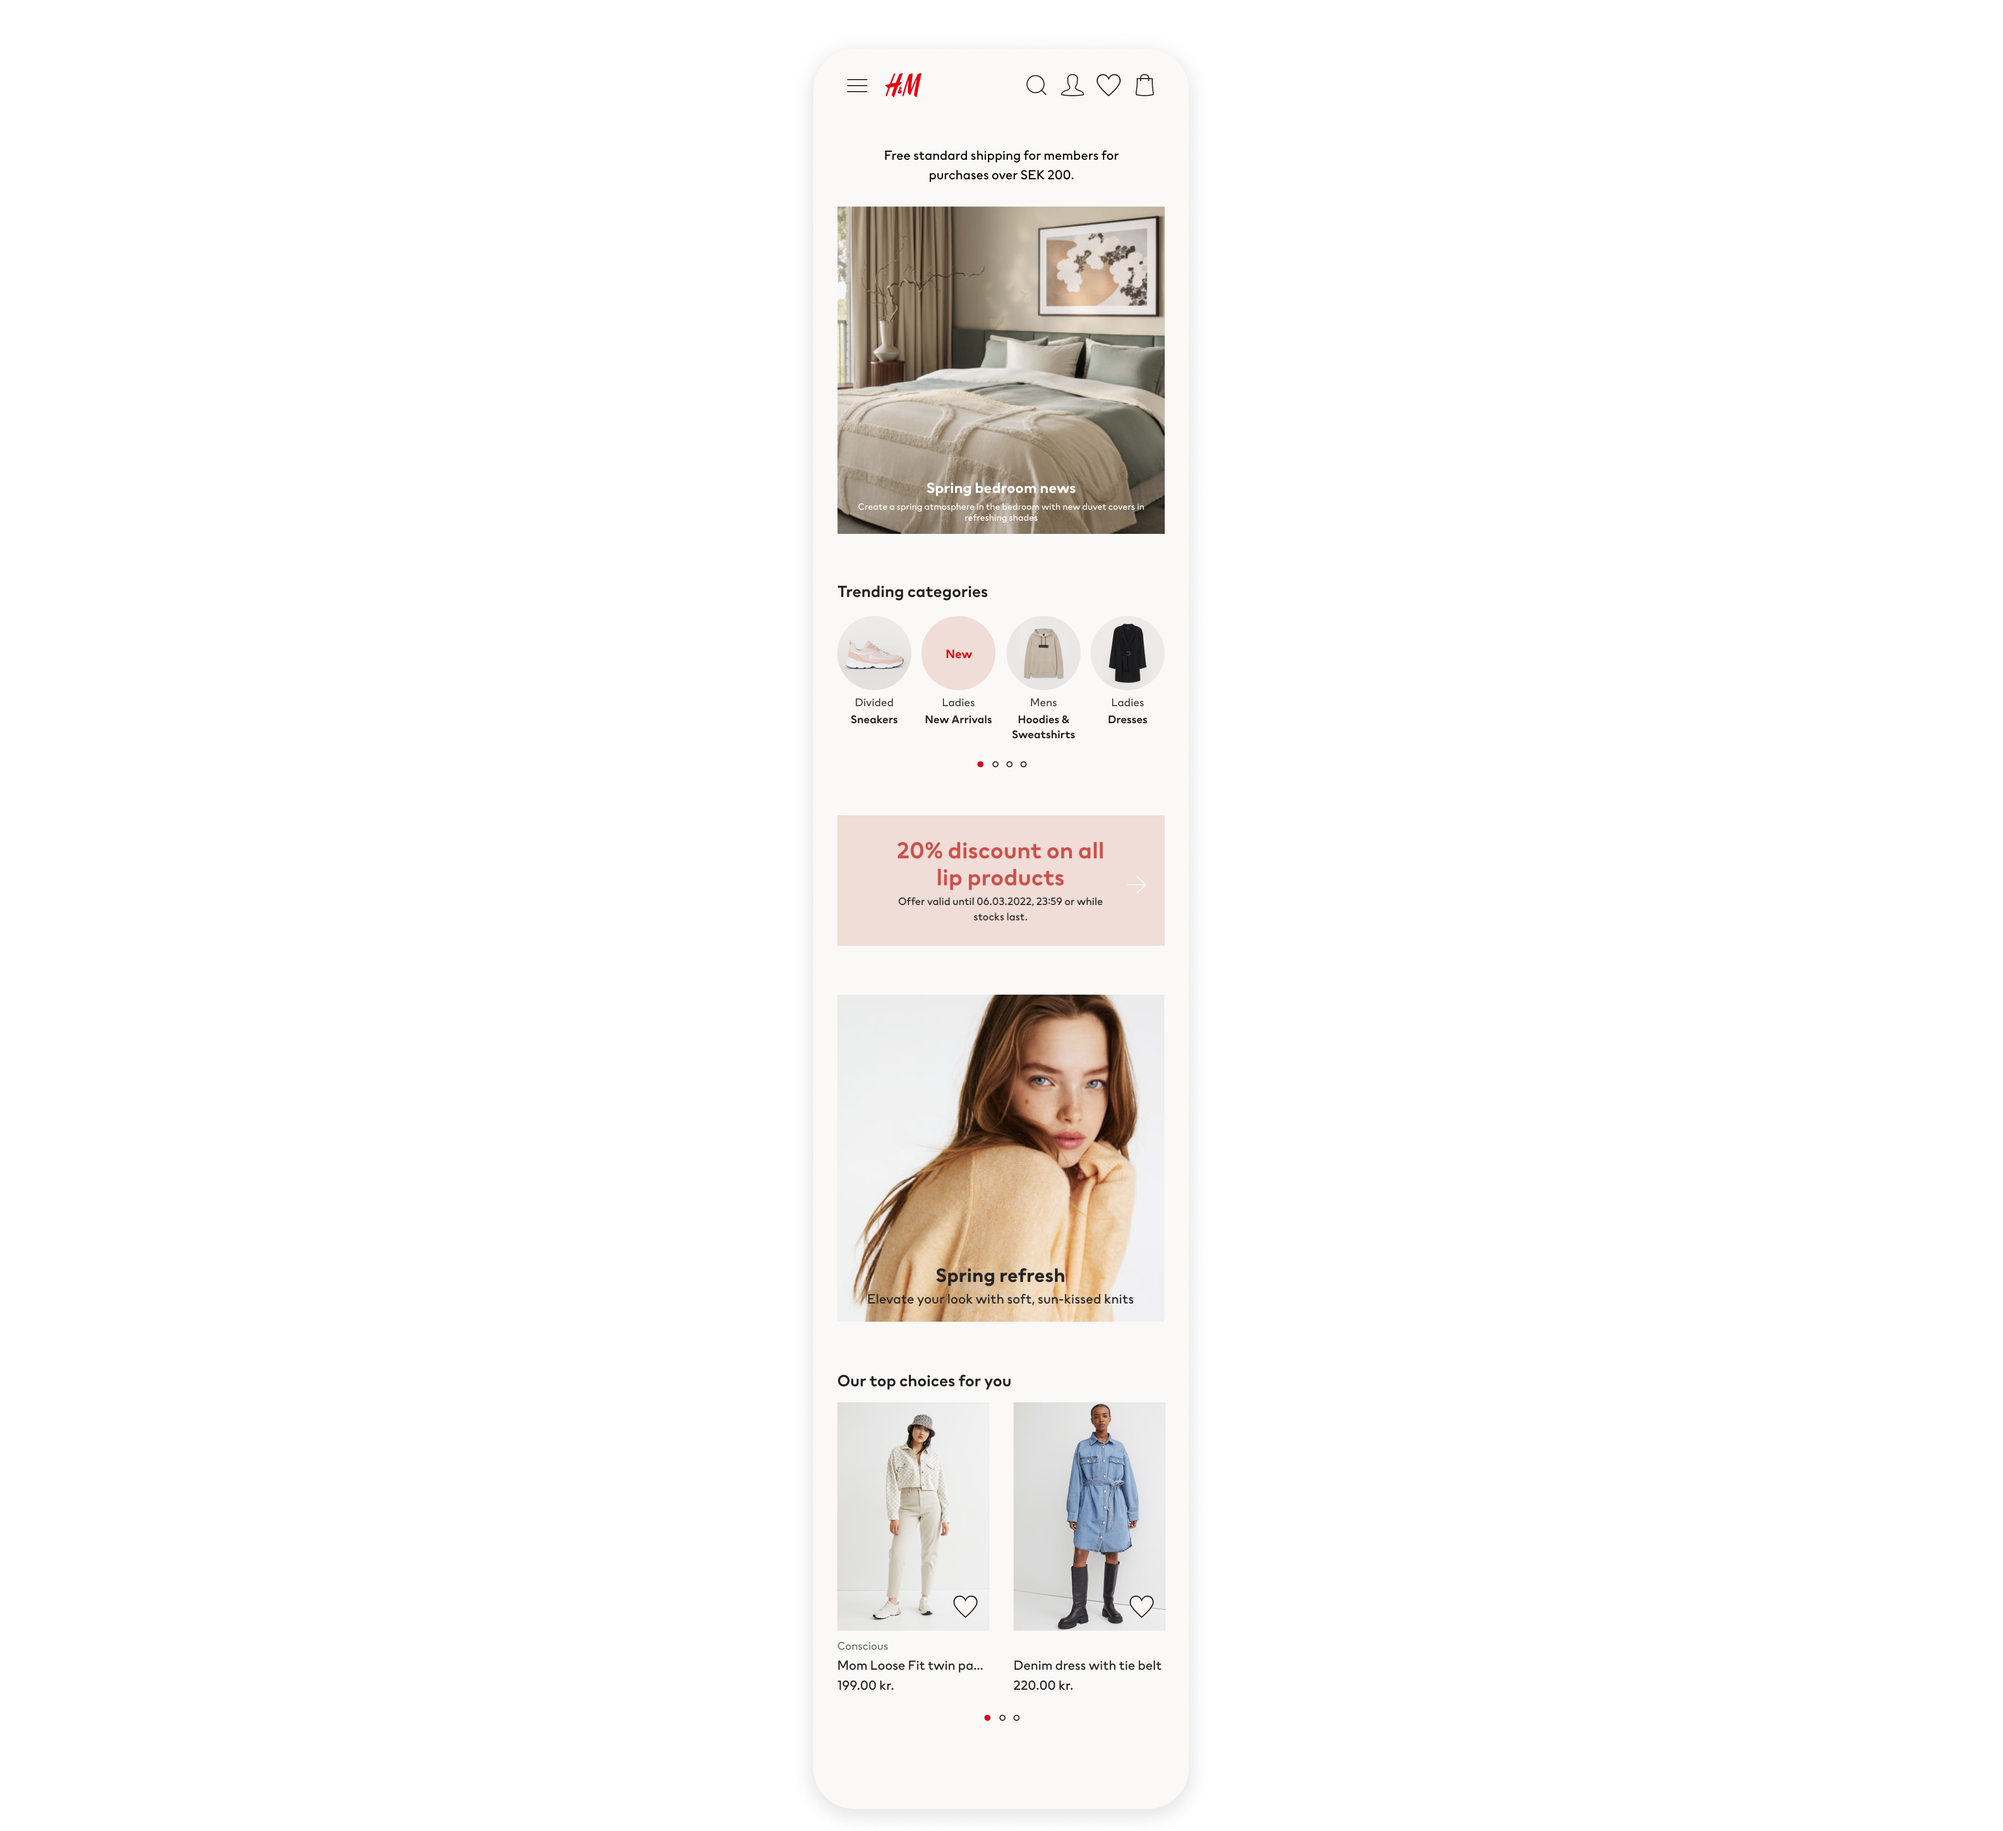
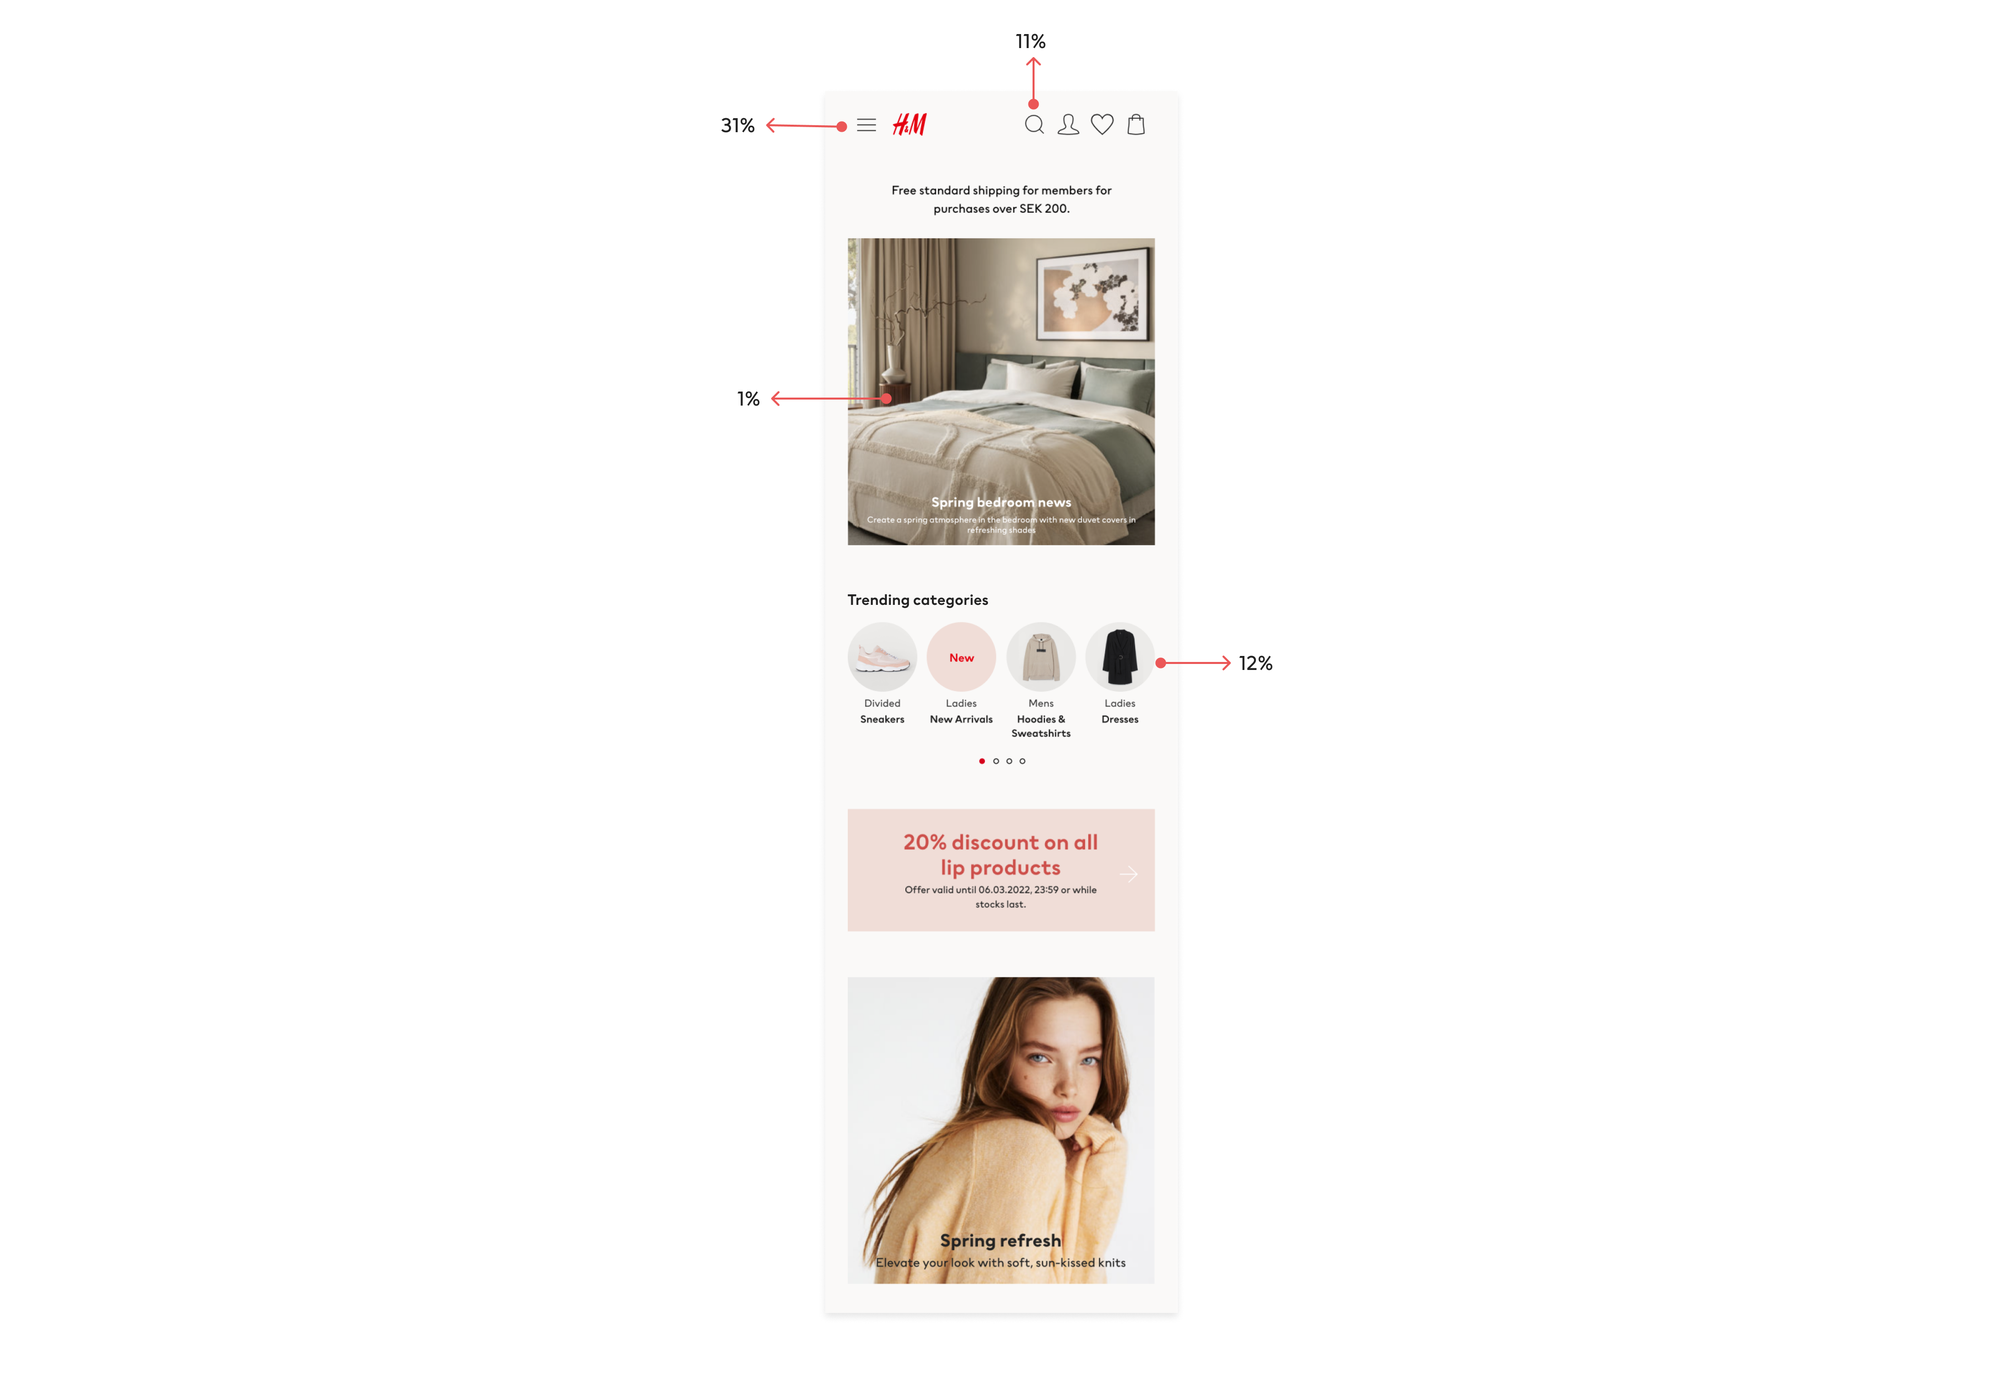
updates content and images

Changed region(s): [[0.4062, 0.4369, 0.5938, 0.9361], [0.4062, 0.0312, 0.5938, 0.4057]]

diff --git a/portfolio-homehm.html b/portfolio-homehm.html
@@ -104,16 +104,16 @@
 
                                                 <br>
 
-                                                <!--<div class="cbp-caption-defaultWrap">
-                                                    <img src="assets/images/portfolio/emergency/emergency0.png" class="portfolio-media-image" alt="Brochure 1" >
-                                                </div>-->
+                                                <div class="cbp-caption-defaultWrap">
+                                                    <img src="assets/images/portfolio/homehm/homehm-hero.png" class="portfolio-media-image" alt="Brochure 1" >
+                                                </div>
 
                                                 <br>
 
                                                 <br>
                                                 
                                                 <div class="cbp-caption-defaultWrap">
-                                                    <img src="assets/images/INFO.png" class="portfolio-media-image" alt="Info" >
+                                                    <img src="assets/images/info.png" class="portfolio-media-image" alt="Info" >
                                                 </div>
                                                 
                                                 <div class="description-subtitle" align="center">Introduction</div>
@@ -163,7 +163,7 @@
                                                     <img src="assets/images/portfolio/homehm/homehm2.png" class="portfolio-media-image" alt="Brochure 1" >
                                                 </div>
 
-                                                <div class="image-subtitle" align="center">Home page experience in 2020</div>
+                                                <div class="image-subtitle" align="center">Home page experience in 2020 with CTR information</div>
 
                                                 <br>
 
@@ -175,13 +175,7 @@
                                                     <li>42% of the customers are starting their session on the home page</li>
                                                     <li>24% considering only web touchpoints</li>
                                                     <li>Visitors spend 21 seconds on average. (The average session duration is 5 min)</li>
-                                                </ul>
-
-                                                 <p>Top interactions</p>
-                                                <ul>
-                                                    <li>1. Burguer menu: 31%</li>
-                                                    <li>2. Categories: 12%</li>
-                                                    <li>3. Search: 11%</li>
+                                                    <li>Visitors who enter the page and exit without viewing a second page is 13.74% (bounce rate)</li>
                                                 </ul>
 
                                                 <br>
@@ -212,6 +206,15 @@
                                                 <br>
 
                                                 <br>
+
+                                                 <p>Pain points</p>
+
+                                                <ul>
+                                                    <li>Lack of shoppable content</li>
+                                                    <li>Content not relevant to the customer</li>
+                                                    <li>Feeling not personal</li>
+                                                    <li>Lack of inspiration and curation</li>
+                                                </ul>
 
                                                 <br>
 
@@ -339,10 +342,11 @@
                                                 <p>Some of the numbers after launch:</p>
 
                                                 <ul>
+                                                    <li>32% decrease in bounce rate</li>
                                                     <li>+2.2% increase in revenue</li>
                                                     <li>+118% increase in visit to brands PLPs</li>
                                                     <li>Engagement with components increased (around 16% to 30% CTR)</li>
-                                                    <li>Increase in visits to PDP and PLP indicating more customers are continuing to the next step of the conversion funnel</li>
+                                                    <li>Increase in visits to PDP 2.62% and PLP 5.91%</li>
                                                 </ul>
 
                                                 <br>
@@ -359,7 +363,7 @@
 
                                                 <br>
 
-                                                <p>As more teams are contributing with the home page, we are running alignement sessions to make sure everyone is aware on what is going on and what is ahead and also to share interesting highlights or learnings related to the home page.</p>
+                                                <p>As more teams are contributing with the home page, I am facilitating alignement sessions to make sure everyone is aware on what is going on and also to share interesting highlights or learnings related to the home page.</p>
 
                                                 <div class="cbp-caption-defaultWrap">
                                                     <img src="assets/images/portfolio/homehm/homehm8.png" class="portfolio-media-image" alt="Brochure 1" >

diff --git a/portfolio-emergency.html b/portfolio-emergency.html
@@ -100,7 +100,8 @@
 
                                                 <br>
                                                 
-                                                <p align="center"> Healthcare project delivered during my work at Philips. To comply with my non-disclosure agreement, I have omitted confidential information in this case study.</p>
+                                                <p align="center"> Healthcare project delivered during my work at Philips in 2019.</p>
+                                                <p align="center">To comply with my non-disclosure agreement, I have omitted confidential information in this case study.</p>
 
                                                 <br>
 
@@ -109,6 +110,37 @@
                                                 </div> 
 
                                                 <br>
+
+                                                <br>
+                                                
+                                                <div class="cbp-caption-defaultWrap">
+                                                    <img src="assets/images/info.png" class="portfolio-media-image" alt="Info" >
+                                                </div>
+                                                
+                                                <div class="description-subtitle" align="center">Introduction</div>
+
+                                                <br>
+
+                                                <br>
+
+                                                 <h5>Goal</h5>
+
+                                                 <p>Improve the management of the patient status for the hospital emergency room workflow.</p>
+
+                                                 <br>
+
+                                                 <br>
+                                                
+                                                <h5>My role and responsabilities:</h5>
+
+                                                <ul>
+                                                    <li>User research to understand the context and identify opportunities</li>
+                                                    <li>Facilitating workshops to ideate and connect stakeholders</li>
+                                                    <li>Providing low and high fidelity prototypes</li>
+                                                    <li>Presenting the design solution to stakeholders</li>
+                                                    <li>Facilitating communication between teams (dev, design, biz)</li>
+                                                    <li>Development follow up</li>
+                                                </ul>
 
                                                 <br>
                                                 
